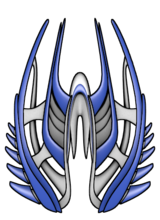
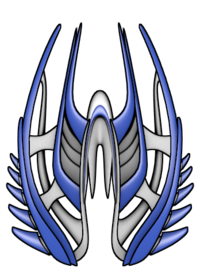
neue Schiffauswahl

diff --git a/Game final Lab/game_library.py b/Game final Lab/game_library.py
@@ -226,34 +226,44 @@ class Game():
 
             elif self.game_state == 0 and event.type == pygame.MOUSEBUTTONDOWN and self.mouse_x < (SCREEN_WIDTH//2)+100 and self.mouse_x > (SCREEN_WIDTH//2)-100 and self.mouse_y > (SCREEN_HEIGHT//2)+10 and self.mouse_y < (SCREEN_HEIGHT//2)+60:
                 self.game_state = 0.1
+            
+            
             elif self.game_state == 0.1 or self.game_state == 0.2:
                 if event.type == pygame.KEYDOWN and event.key == pygame.K_ESCAPE:
                     self.game_state = 0
-                elif event.type == pygame.MOUSEBUTTONDOWN and self.mouse_x < 328 and self.mouse_x > 232 and self.mouse_y > SCREEN_HEIGHT/2-128 and self.mouse_y < SCREEN_HEIGHT/2-32:
-                    self.player_ship = PLAYER_SHIP_LIST[0]
-                    self.bullet_image = BULLET_LIST[0]
-                    SELECT.play()
-                elif event.type == pygame.MOUSEBUTTONDOWN and self.mouse_x < 456 and self.mouse_x > 360 and self.mouse_y > SCREEN_HEIGHT/2-128 and self.mouse_y < SCREEN_HEIGHT/2-32:
-                    self.player_ship = PLAYER_SHIP_LIST[1]
-                    self.bullet_image = BULLET_LIST[1]
-                    SELECT.play()
-                elif event.type == pygame.MOUSEBUTTONDOWN and self.mouse_x < 584 and self.mouse_x > 488 and self.mouse_y > SCREEN_HEIGHT/2-128 and self.mouse_y < SCREEN_HEIGHT/2-32:
-                    self.player_ship = PLAYER_SHIP_LIST[2]
-                    self.bullet_image = BULLET_LIST[2]
-                    SELECT.play()
-                elif event.type == pygame.MOUSEBUTTONDOWN and self.mouse_x < 712 and self.mouse_x > 616 and self.mouse_y > SCREEN_HEIGHT/2-128 and self.mouse_y < SCREEN_HEIGHT/2-32:
-                    self.player_ship = PLAYER_SHIP_LIST[3]
-                    self.bullet_image = BULLET_LIST[3]
-                    SELECT.play()
-                elif event.type == pygame.MOUSEBUTTONDOWN and self.mouse_x < 840 and self.mouse_x > 744 and self.mouse_y > SCREEN_HEIGHT/2-128 and self.mouse_y < SCREEN_HEIGHT/2-32:
-                    self.player_ship = PLAYER_SHIP_LIST[4]
-                    self.bullet_image = BULLET_LIST[4]
-                    SELECT.play()
-                elif event.type == pygame.MOUSEBUTTONDOWN and self.mouse_x < 968 and self.mouse_x > 872 and self.mouse_y > SCREEN_HEIGHT/2-128 and self.mouse_y < SCREEN_HEIGHT/2-32:
-                    self.player_ship = PLAYER_SHIP_LIST[5]
-                    self.bullet_image = BULLET_LIST[5]
-                    SELECT.play()
-                self.player.image = self.player_ship
+                if event.type == pygame.MOUSEBUTTONDOWN:
+                    if self.mouse_x < SCREEN_WIDTH//2 + 100 and self.mouse_x > SCREEN_WIDTH//2+60 and self.mouse_y <SCREEN_HEIGHT//2 + 220 and self.mouse_y > SCREEN_HEIGHT//2+180: 
+                        self.menu_ship = MENU_SHIPS[5]
+                        self.player_ship = PLAYER_SHIP_LIST[5]
+                        self.bullet_image = BULLET_LIST[5]
+                        SELECT.play()
+                    elif self.mouse_x < SCREEN_WIDTH//2 + 60 and self.mouse_x > SCREEN_WIDTH//2+20 and self.mouse_y <SCREEN_HEIGHT//2 + 220 and self.mouse_y > SCREEN_HEIGHT//2+180:
+                        self.menu_ship = MENU_SHIPS[4]
+                        self.player_ship = PLAYER_SHIP_LIST[4]
+                        self.bullet_image = BULLET_LIST[4]
+                        SELECT.play()
+                    elif self.mouse_x < SCREEN_WIDTH//2 + 20 and self.mouse_x > SCREEN_WIDTH//2-20 and self.mouse_y <SCREEN_HEIGHT//2 + 220 and self.mouse_y > SCREEN_HEIGHT//2+180:
+                        self.menu_ship = MENU_SHIPS[3]
+                        self.player_ship = PLAYER_SHIP_LIST[3]
+                        self.bullet_image = BULLET_LIST[3]
+                        SELECT.play()
+                    elif self.mouse_x < SCREEN_WIDTH//2 + -20 and self.mouse_x > SCREEN_WIDTH//2-60 and self.mouse_y <SCREEN_HEIGHT//2 + 220 and self.mouse_y > SCREEN_HEIGHT//2+180:
+                        self.menu_ship = MENU_SHIPS[2]
+                        self.player_ship = PLAYER_SHIP_LIST[2]
+                        self.bullet_image = BULLET_LIST[2]
+                        SELECT.play()
+                    elif self.mouse_x < SCREEN_WIDTH//2 + -60 and self.mouse_x > SCREEN_WIDTH//2-100 and self.mouse_y <SCREEN_HEIGHT//2 + 220 and self.mouse_y > SCREEN_HEIGHT//2+180:
+                        self.menu_ship = MENU_SHIPS[1]
+                        self.player_ship = PLAYER_SHIP_LIST[1]
+                        self.bullet_image = BULLET_LIST[1]
+                        SELECT.play()
+                    elif self.mouse_x < SCREEN_WIDTH//2 + -100 and self.mouse_x > SCREEN_WIDTH//2-140 and self.mouse_y <SCREEN_HEIGHT//2 + 220 and self.mouse_y > SCREEN_HEIGHT//2+180:
+                        self.menu_ship = MENU_SHIPS[0]
+                        self.player_ship = PLAYER_SHIP_LIST[0]
+                        self.bullet_image = BULLET_LIST[0]
+                        SELECT.play()
+                    #[SCREEN_WIDTH//2 - 140, SCREEN_HEIGHT//2+180, 240, 40]
+                    self.player.image = self.player_ship
             elif event.type == pygame.KEYDOWN and event.key == pygame.K_SPACE and self.game_state == 8:
                 
                 self.game_state = 2  # level2
@@ -287,9 +297,6 @@ class Game():
 
             elif event.type == pygame.MOUSEBUTTONDOWN and (self.game_state == 1 or self.game_state == 2 or self.game_state == 3):
                 if self.player.ammo != 0:
-                    # self.mouse_pos = pygame.mouse.get_pos()
-                    # self.mouse_x = self.mouse_pos[0]
-                    # self.mouse_y = self.mouse_pos[1]
                     bullet = bullet_library.Bullet(
                         self.bullet_image, self.player.rect.x, self.player.rect.y, self.mouse_x, self.mouse_y)
                     LASER[0].play()
@@ -644,7 +651,8 @@ class Game():
                     pygame.draw.rect(screen, WHITE, [SCREEN_WIDTH//2 - 140 + 40*i , SCREEN_HEIGHT//2+180, 40, 40],3)
                     number = game_titel_font.render(str(i), True, WHITE)  
                     screen.blit(number, [10+SCREEN_WIDTH//2 - 140 + 40*i, SCREEN_HEIGHT//2+180])         
-                screen.blit(self.menu_ship, [x, y])
+                screen.blit(self.menu_ship, [SCREEN_WIDTH//2 - self.menu_ship.get_width()//2, y])
+                
             ships_instructions = game_titel_font.render(
                 "Press ESC to get back to the main menu", True, (87, 119, 119))
             x = (SCREEN_WIDTH // 2) - (ships_instructions.get_width() // 2)
@@ -655,8 +663,6 @@ class Game():
             screen.blit(BACKGROUND_LIST[8], [0,0])
             pygame.draw.rect(screen, ALICE_BLUE, [SCREEN_WIDTH//2-150, SCREEN_HEIGHT//2-200, 300, 400])
             pygame.draw.rect(screen, BLACK, [SCREEN_WIDTH//2-150, SCREEN_HEIGHT//2-200, 300, 400],3)
-
-            
 
             high_score_text = game_titel_font.render(
                 "Press ESC to get back to the main menu", True, (87, 119, 119))

diff --git a/Game final Lab/badblock_library.py b/Game final Lab/badblock_library.py
@@ -9,7 +9,7 @@ class BadBlock(block_library.Block):
         self.y = y
     def reset_pos(self):
         if self.x < 0 and self.y > 0:
-            self.rect.x = random.randrange(SCREEN_WIDTH+SCREEN_WIDTH)
+            self.rect.x = random.randrange(50, 2*SCREEN_WIDTH)
             self.rect.y = random.randrange(-100, 0)
         elif self.x != 0:
             self.rect.x = random.randrange(-30, -19)
